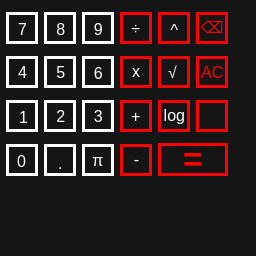
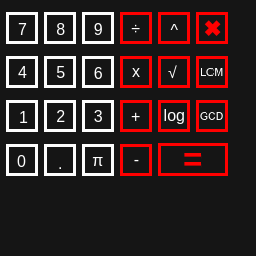
Added support for decimal numbers
pi button is now working. Delete button too

Changed region(s): [[0.7812, 0.0625, 0.875, 0.1562], [0.7812, 0.25, 0.875, 0.3125], [0.7812, 0.4375, 0.875, 0.4688]]

diff --git a/source/main.cpp b/source/main.cpp
@@ -18,7 +18,7 @@
 
 
 bool inRange(int low, int high, int x);
-int operate(int termA, int termB, int operation);
+float operate(float termA, float termB, int operation);
 
 using namespace std;
 int main(void)
@@ -54,12 +54,16 @@ int main(void)
                                {16, 14, 22, 17, -10},
                              };
 	// Related to operating
-	int termA = 0;
-	int termB = 0;
+	float termA = 0.00;
+	unsigned int precisionA = 0;
+	float termB = 0.00;
+	unsigned int precisionB = 0;
 	bool firstDigit = true;
 	bool termCurrent = true; // Determines the current term (true = A, false = B)
 	int operation; // The operation we are performing (+, -, x, ^)
-	int result = 0;
+	float result = 0.00;
+	unsigned int decimal = 0;
+	bool opFinished = false;
 
 	// other
 	char coperator;
@@ -79,8 +83,9 @@ int main(void)
 	consoleInit(0, 0, BgType_Text4bpp, BgSize_T_256x256, 16, 6, true, true);
 	
 	// Display some Info
-	iprintf("\x1b[2;3HNintendo DS(i) calculator");
-        iprintf("\x1b[3;3Hxamuel.xyz");
+	iprintf("\x1b[2;3HDS_calc");
+	iprintf("\x1b[3;3Hxamuel.xyz/dscalc");
+        iprintf("\x1b[2;%dH%d%%", 27 - 3, getBatteryLevel());
 	
 	// draw keypad bitmap
 	int bg2 = bgInitSub(2, BgType_Bmp8, BgSize_B8_256x256, 0,0);
@@ -99,57 +104,94 @@ int main(void)
 	      	 if (buttons[i][4] < 0) {
 		    if (inRange(-2, -8, buttons[i][4])) {
 		       operation = buttons[i][4];
+		       if (termCurrent) { precisionA = decimal;}
+                       else { precisionB = decimal;}
 		       termCurrent = false;
 		       firstDigit = true;
+		       decimal = 0;
 		       coperator = operators[buttons[i][4]];
 		    } else {
 		       switch(buttons[i][4]) {
 		          case -1: // dot
+			     decimal = 1;
 			     break;
 			  case -9: // remove
-                             if (termCurrent) {
-                                termA = 0;
-                             } else {
-                                termB = 0;
-                       	     }
+                             termA = 0.00;
+                             termB = 0.00;
+			     result = 0.00;
+			     precisionA = 0;
+                             precisionB = 0;
+			     firstDigit = true;
+                             termCurrent = true;
+			     iprintf("\x1b[18;2H                              ");
+			     iprintf("\x1b[20;1H                               ");
+			     printf("\x1b[18;3H%.*f %c %.*f =", 0, termA, coperator, 0, termB);
+                             printf("\x1b[20;23H0.000");
 			     break;
 			  case -10: // equal
+			     //if (termCurrent) { precisionA = decimal;}
 			     result = operate(termA, termB, operation);
+			     iprintf("\x1b[18;2H                              ");
+			     printf("\x1b[18;3H%.*f %c %.*f =", precisionA, termA, coperator, decimal, termB);
 			     if (result != NULL) {
 				int digits = log10(result)+1;
-				iprintf("\x1b[18;3H                              ");
-			        iprintf("\x1b[18;%dH%d", 28 - digits, result);
+			        iprintf("\x1b[20;1H                               ");
+				printf("\x1b[20;%dH%.4f", 22 - digits, result);
 			     } else {
                                 iprintf("\x1b[18;23;HERROR");
 			     }
-                             //termA = result;
-			     //termB = 0;
-			     //operation = 0;
+                             precisionA = 0;
+			     precisionB = 0;
+			     decimal = 0;
 			     firstDigit = true;
 			     termCurrent = true;
+			     opFinished = true;
+			     break;
+			  case -11:
+			     if (termCurrent) { termA = 3.141593; }
+			     else { termB = 3.141593; }
+			     decimal = 6;
 			     break;
 		       }
 		    }
 		 } else {
 		    if (keysDown()) {
-		       if (termCurrent) {
-		          if (firstDigit){
-			     termA = buttons[i][4];
-			     firstDigit = false;
-			  } else {
-			     termA = termA * 10 + buttons[i][4];
-			  }
-		       } else {
-		          if (firstDigit){
-                             termB = buttons[i][4];
-			     firstDigit = false;
-                          } else {
-                             termB = termB * 10 + buttons[i][4];
-			  }
-		       }
+			opFinished = false;
+		        if (decimal > 0) {
+			   if (termCurrent) {
+                              termA = termA + buttons[i][4] / pow(10, decimal);
+			      decimal++;
+                           } else {
+                              termB = termB + buttons[i][4] / pow(10, decimal);
+                       	      decimal++;
+			   }
+			} else {
+			   if (termCurrent) {
+		             if (firstDigit){
+			        termA = buttons[i][4];
+			        firstDigit = false;
+			     } else {
+			        termA = termA * 10 + buttons[i][4];
+			     }
+		          } else {
+		             if (firstDigit){
+                                termB = buttons[i][4];
+			        firstDigit = false;
+                             } else {
+                                termB = termB * 10 + buttons[i][4];
+			     }
+		          }
+			}
 		    }
 		 }
-           	 iprintf("\x1b[18;3H%d %c %d =", termA, coperator, termB);
+		 if (!opFinished){
+		    iprintf("\x1b[18;2H                              ");
+		    if (precisionA == 0 && termCurrent) {
+		       printf("\x1b[18;3H%.*f %c %.*f =", decimal, termA, coperator, 0, termB);
+		    } if (precisionB == 0 && !termCurrent) {
+		       printf("\x1b[18;3H%.*f %c %.*f =", precisionA, termA, coperator, decimal, termB);
+		    }
+		 }
 	      }
 	   }
 	}
@@ -162,8 +204,8 @@ bool inRange(int low, int high, int x) {
 	return ((x-high)*(x-low) <= 0);
 }
 
-int operate(int termA, int termB, int operation) {
-	int result = 0;
+float operate(float termA, float termB, int operation) {
+	float result = 0.00;
 
 	switch (operation) {
 	   case -2:
@@ -176,7 +218,7 @@ int operate(int termA, int termB, int operation) {
 	      result = termA * termB;
               break;
 	   case -5:
-	      if (termB != 0){
+	      if (termB != 0.00){
 	         result = termA / termB;
 	      } else {
 	         result = NULL;
